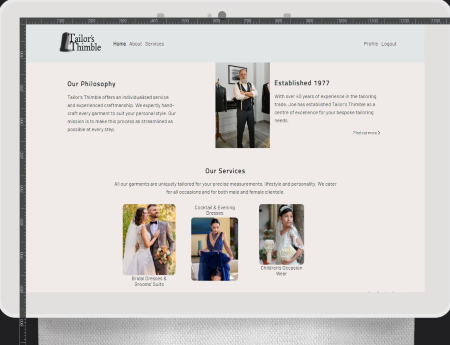
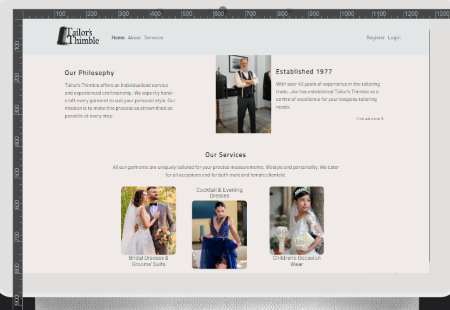
Fix service-img bug

diff --git a/templates/services.html b/templates/services.html
@@ -10,9 +10,9 @@
     </div>
     <div class="section-container">
         <div class="services-container">
-            <div class="col-sm-12 d-md-flex col-md-10 col-lg-8 m-auto">
+            <div class="col-sm-12 col-md-10 d-md-flex m-auto">
                 <div class="d-flex align-items-center d-md-block">
-                    <div class="col-sm-8 col-md-12 offset-md-1 col-lg-10 offset-lg-0">
+                    <div class="col-sm-8 col-md-12 col-lg-10">
                         <img src="https://res.cloudinary.com/aperlae/image/upload/q_auto/v1678032702/tailors-thimble-images/services-wedding_xmkwkh.webp" 
                         class="service-img img-fluid shadow-sm mb-3 mb-md-0" alt="Smiling Couple in Wedding Attire">
                     </div>
@@ -41,12 +41,12 @@
             </div>
         </div>
         <div class="services-container">
-            <div class="col-12 d-md-flex col-md-10 col-lg-8 m-auto">
+            <div class="col-sm-12 col-md-10 d-md-flex col-lg-10 m-auto">
                 <div class="d-flex d-md-block align-items-center">
                     <div class="col-sm-4 col-md-12 col-lg-10">
                         <p class="service-caption text-right text-md-center">Formal Suits & Evening Wear</p>
                     </div>
-                    <div class="col-sm-8 col-md-12 offset-md-1 col-lg-10 offset-lg-0">
+                    <div class="col-sm-8 col-md-12 col-lg-10">
                         <img src="https://res.cloudinary.com/aperlae/image/upload/q_auto/v1678123071/tailors-thimble-images/services-evening_t25i7i.webp" 
                         class="service-img img-fluid shadow-sm mb-3 mb-md-0" alt="Smiling Couple in Formal Attire">
                     </div>

diff --git a/static/css/styles.css b/static/css/styles.css
@@ -338,8 +338,7 @@ a { text-decoration: none; }
 
 /* OUR SERVICES */
 .service-img {
-    max-width: 100%;
-    width: 17rem;
+    width: 100%;
     height: auto;
     border-radius: 10px;
 }
@@ -469,15 +468,6 @@ footer .copyright a:hover {
         margin-bottom: 1em;
     }
 
-    .service-caption {
-        font-size: 1.6rem;
-    }
-
-    .service-img {
-        width: 15rem;
-        height: auto;
-    }
-
     /* FOOTER */
 
     footer .d-flex {
@@ -496,10 +486,9 @@ footer .copyright a:hover {
     }
 
     /* SERVICES */
-
-    .service-img {
-        width: 18rem;
-        height: auto;
+    
+    .service-caption {
+        font-size: 1.8rem;
     }
 }
 

diff --git a/README.md b/README.md
@@ -211,6 +211,17 @@ CRISPY_TEMPLATE_PACK = "bootstrap5"
 </details>
 
 <details>
+<summary>Bugs encountered during Testing</summary>
+
+* **Services Images**
+
+    Problem: At screen sizes > 1200px images are not scaling up equally. I have checked that all images have the same classes, and tried adding some media queries with width specified, however the problem persists and can't pinpoint why this is happening.  This is effecting the images to center properly on the page. 
+    Possible Solution: I will need to re-write this section in order to make them scale up equally.  Possibly using flex-grow or having an image srcset to size up the images at the different screen size.
+    Solved: Due to another bug I noticed during responsiveness testing, I managed to solve this by giving them a larger column width at the different breakpoints and removing the 'row' element they were in.  This gave each of the columns an equal width and the images were then allowed to scale up equally.
+
+</details>
+
+<details>
 <summary>Bugs Remaining</summary>
 
 ### Bugs Remaining
@@ -222,10 +233,6 @@ CRISPY_TEMPLATE_PACK = "bootstrap5"
     Problem: Issue with this regex `^[+][0-9\\s]+` is that it lets more than one whitespace in so user can submit a number like this "+33     333".  
     Temporary solution: After several searches and attempts at moving the '\\s' around, I decided to go with no white space at all and used '^[+][0-9]+'.
 
-* **Services Images**
-
-    Problem: At screen sizes > 1200px images are not scaling up equally. I have checked that all images have the same classes, and tried adding some media queries with width specified, however the problem persists and can't pinpoint why this is happening.  This is effecting the images to center properly on the page. 
-    Possible Solution: I will need to re-write this section in order to make them scale up equally.  Possibly using flex-grow or having an image srcset to size up the images at the different screen size.
 
 </details>
 

diff --git a/TESTING.md b/TESTING.md
@@ -204,6 +204,10 @@ _____
 
 ![Passed](documentation/mobile-home.png)
 
+*Note*: After changing the service-img to scale up evenly for screens > 1200px, the test was run again and the performance dropped a little for mobile. Because of time constraints, it wasn't possible to investigate further at this time. 
+
+![Retest Lower Performance](documentation/mobile-home-retest.png)
+
 * Desktop
 
 ![Passed](documentation/desktop-home.png)
@@ -328,10 +332,8 @@ The website is responsive for screens with a mininum width of 320px and a maximu
         Tablet - iPad - 768px
 ![Home on tablet](documentation/home-ipad_768.png)
  
-        Desktop - Nest Hub Pro - 1280px
+        Desktop - Nest Hub Max - 1280px
 ![Home on desktop](documentation/home-nesthubmax_1280.png)
-
-*Noted in bugs yet to fix*:- Slight issue with images not scaling up equally at screen-sizes > 1200px 
 
 **ABOUT**
 
